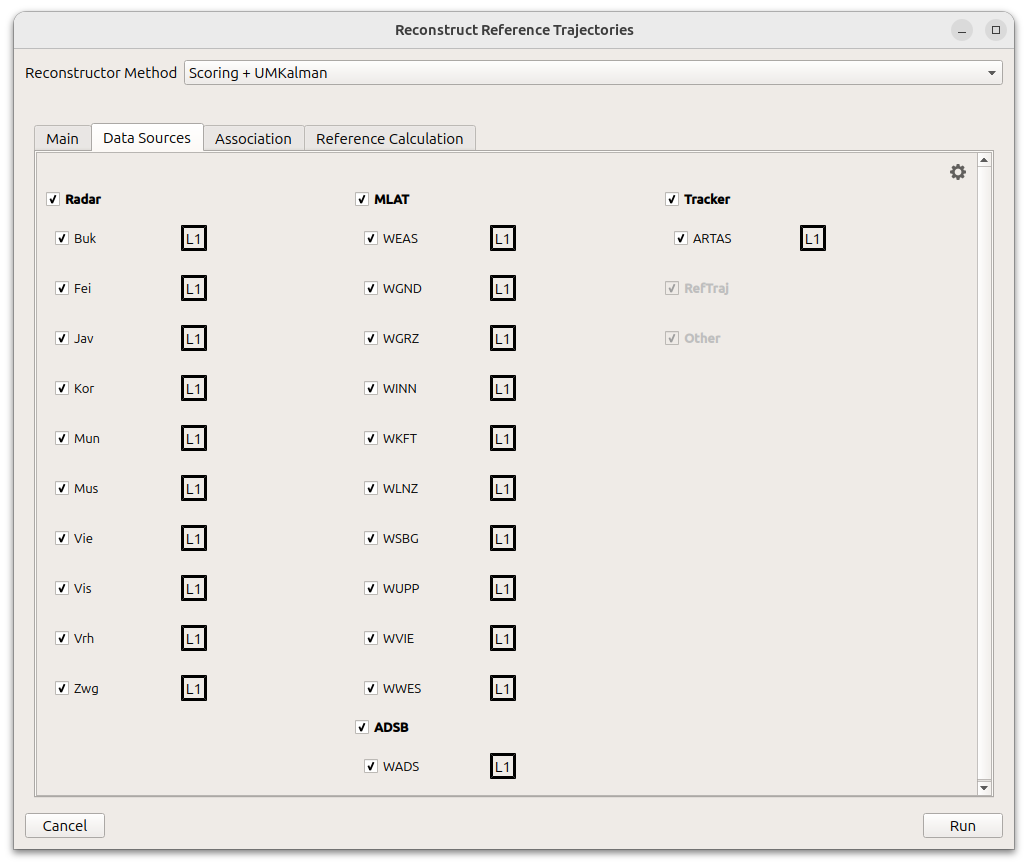
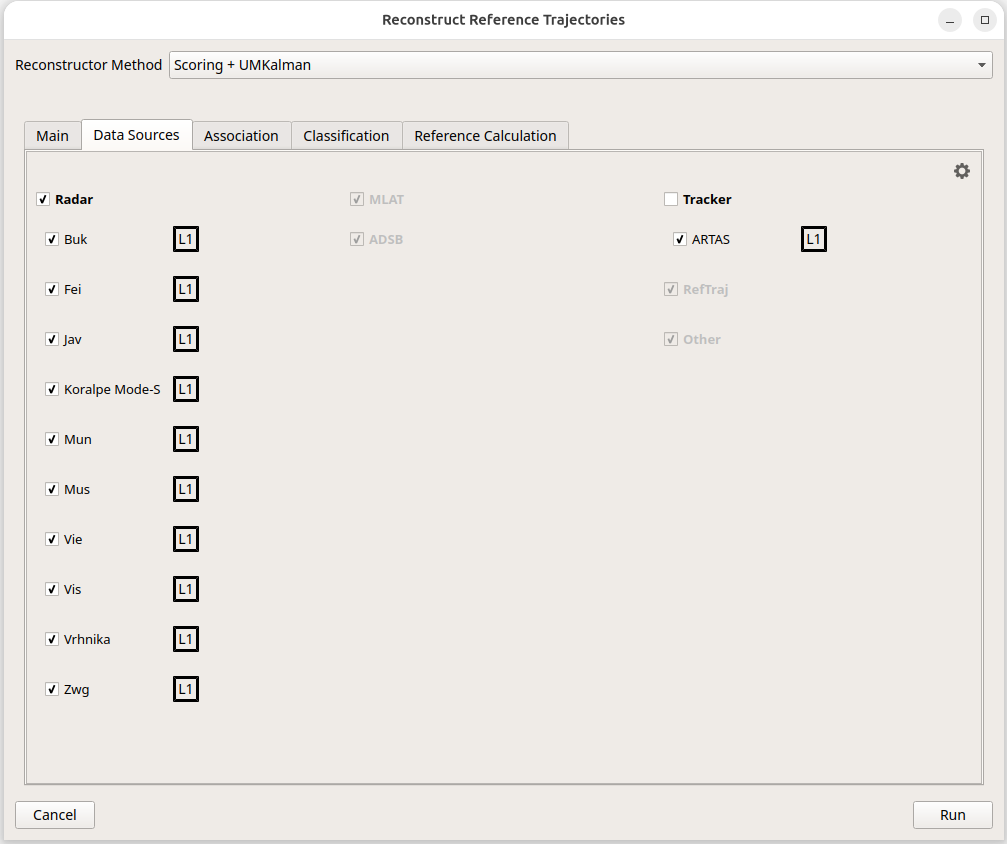
doc up

diff --git a/doc/user_manual/reconst/reconstructor.tex b/doc/user_manual/reconst/reconstructor.tex
@@ -112,6 +112,48 @@ This enables merging of created targets even if single target reports (e.g. duri
 \end{itemize}
 \ \\
 
+\subsection{Target Type}
+
+A target type is defined based the following information (if available):
+
+\begin{itemize}
+\item ADS-B emitter category (ECAT)
+\item Vehicle Mode S address list
+\item Defined FFTs
+\item Reported Altitudes
+\end{itemize}
+
+\ \\
+
+It encompasses a type (e.g. aircraft type, vehicle, FFT, ...), and adds information about an average target size, expected movement dynamics and ground only flag - all of which are used during reconstruction. \\
+
+The following target types exist:
+
+\begin{itemize}
+\item Unknown: No information
+\item By ECAT
+\begin{itemize}
+\item LightAircraft
+\item SmallAircraft
+\item MediumAircraft
+\item HighVortexLargeAircraft
+\item HeavyAircraft
+\item HighSpeedManoeuvrable
+\item Rotocraft
+\item OtherAirborne (Gliders, UAVs, ultralights, lighter-than-air, etc. )
+\item Vehicle
+\item Obstacle
+\end{itemize}
+\item Other aircraft, not from ECAT but from Mode C
+\begin{itemize}
+\item AnyAircraft
+\end{itemize}
+\item By defined FFTs
+\begin{itemize}
+\item FFT
+\end{itemize}
+\end{itemize}
+
 \subsection{Discussion}
 
 The user should be aware that, while this association feature is quite capable, it is still somewhat limited. 

diff --git a/doc/user_manual/reconst/reconstructor_config.tex b/doc/user_manual/reconst/reconstructor_config.tex
@@ -44,6 +44,16 @@ In this tab, the data sources to contribute to the calculated references can be 
 
 Please \textbf{note} that de-selected data sources are still associated, but only their target report positions do not contribute to the references.
 
+\subsubsection{Classification}
+
+In the classification, special parameters can be set to identity the AnyAircraft and Vehicle categories. Any target (without any other class information) and any Mode C code about the given 'Minimum Aircraft Altitude' will be classified as AnyAircraft. Vehicles (with any other class information) can be set by giving a list of Mode S Aircraft Identification and/or Aircraft Addresses. \\
+
+\begin{figure}[H]
+    \center
+      \includegraphics[width=16cm]{figures/dialog_class.png}
+    \caption{Classification Parameters}
+\end{figure}
+
 \subsection{Scoring + UMKalman Parameters}
 
 \subsubsection{Association}
